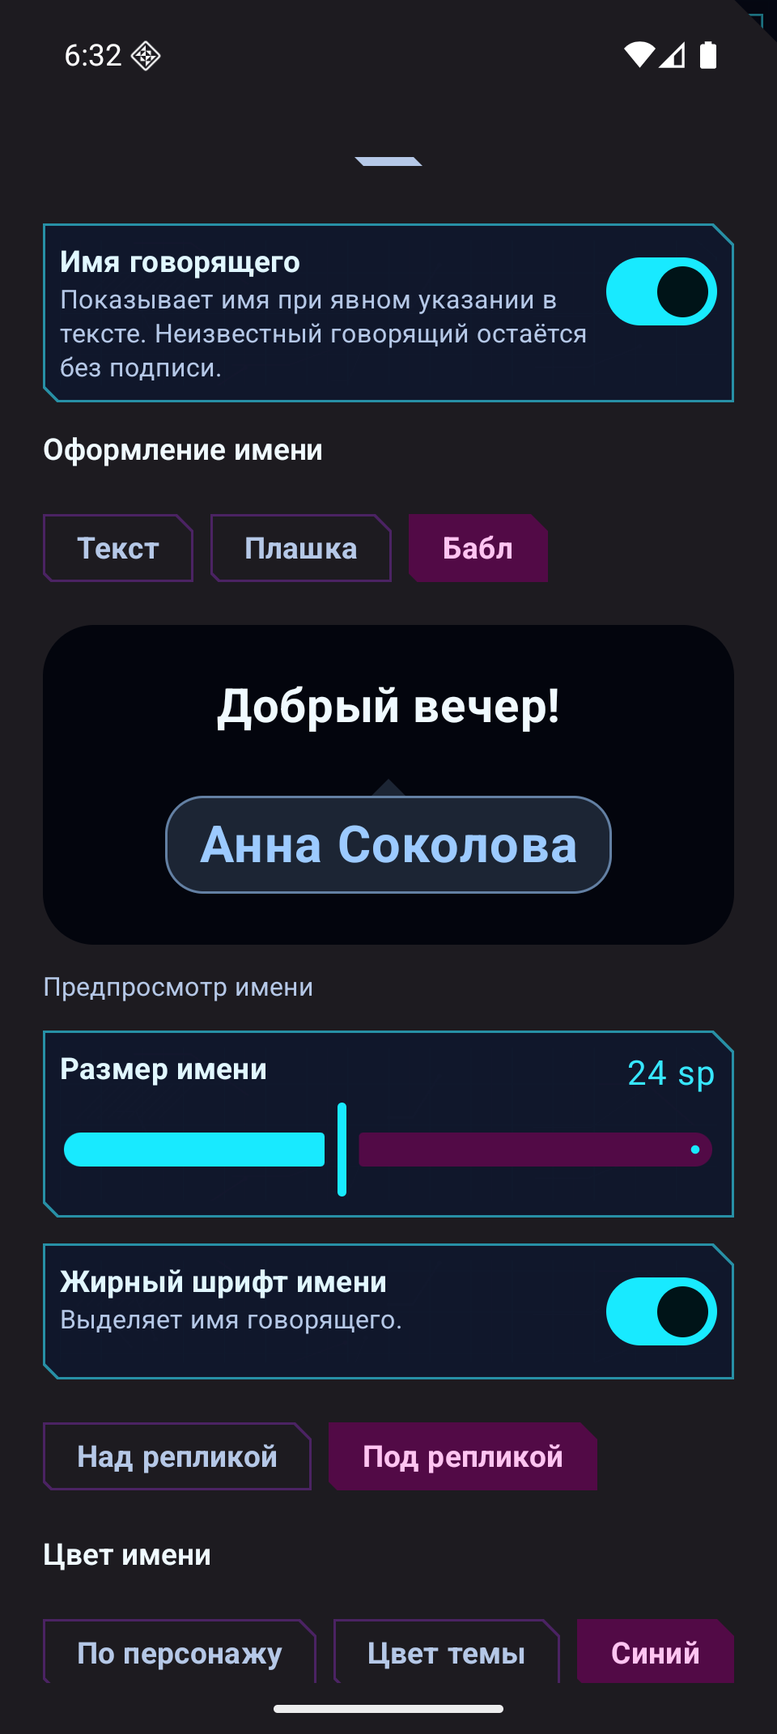
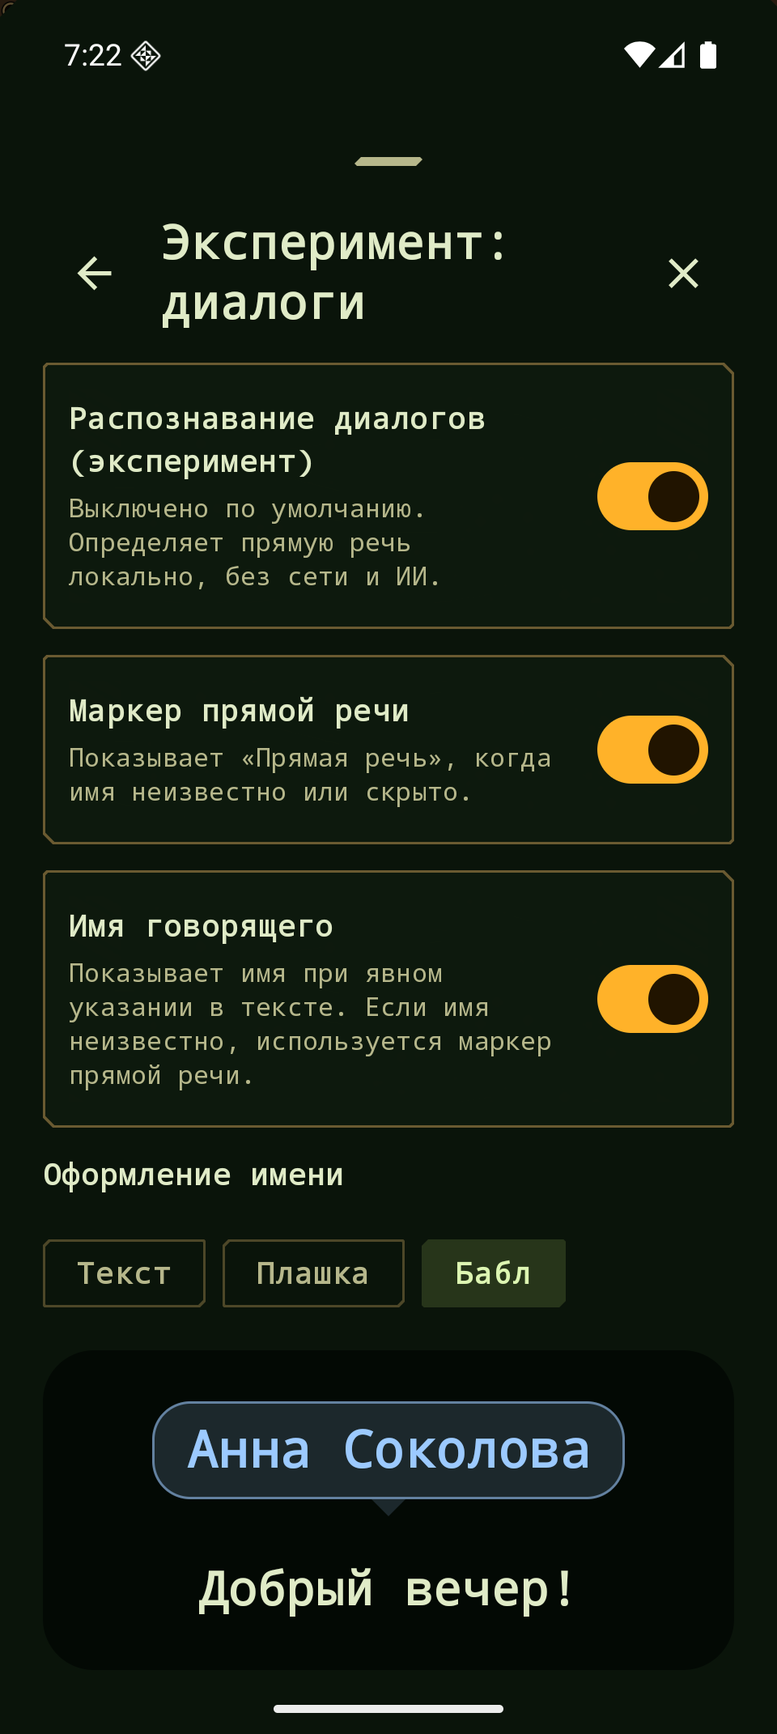
Prepare alpha.99 GitHub release documentation and screenshots

diff --git a/README.md b/README.md
@@ -6,9 +6,9 @@
 
 EPUB · FB2 · FB2.ZIP · TXT · PDF · Аудиокниги
 
-[**Скачать APK**](https://github.com/nrevis/FluxReader/releases/tag/v0.2.0-alpha.98) · [Исходники ZIP](https://github.com/nrevis/FluxReader/releases/download/v0.2.0-alpha.98/FluxReader-0.2.0-alpha.98-clean.zip) · [Все скриншоты](#gallery)
+[**Скачать APK**](https://github.com/nrevis/FluxReader/releases/tag/v0.2.0-alpha.99) · [Исходники ZIP](https://github.com/nrevis/FluxReader/releases/download/v0.2.0-alpha.99/FluxReader-0.2.0-alpha.99-clean.zip) · [Все скриншоты](#gallery)
 
-**Android 9+** · **0.2.0-alpha.98** · **Автор: n.revis**
+**Android 9+** · **0.2.0-alpha.99** · **Автор: n.revis**
 
 </div>
 
@@ -221,11 +221,11 @@ Flux Reader объединяет домашнюю библиотеку, обыч
 
 Для имени можно выбрать текст, плашку или бабл, размер 12–40 sp, цвет, жирность, положение над или под репликой и отступ. Предпросмотр находится рядом с настройками.
 
-Учитываются слова автора внутри реплики, неразрывные пробелы и явное представление говорящего перед репликой. Пауза в начале реплики настраивается от 0 до 500 мс. Функция выключена по умолчанию: включите её в **Настройки → Скорочтение → Экспериментальные функции** или в меню **«Эксперимент: диалоги»** внутри Speed Reader. Распознавание работает локально; неоднозначные реплики могут остаться без имени.
+Учитываются слова автора внутри реплики, неразрывные пробелы и явное представление говорящего перед репликой. Пауза в начале реплики настраивается от 0 до 500 мс. Функция выключена по умолчанию: включите её в **Настройки → Скорочтение → Экспериментальные функции** или в меню **«Эксперимент: диалоги»** внутри Speed Reader. Распознавание работает локально. Реплика без явного имени получает маркер «Прямая речь»; показ имени и общего маркера переключается отдельно. Неявное имя говорящего не угадывается. Учитываются наречия и должность перед именем, а также эмоциональные авторские ремарки.
 
-<p align="center"><a href="docs/screenshots/speed-reading/dialogue-name-preview.png"><img src="docs/screenshots/speed-reading/dialogue-name-preview.png" width="320" alt="Настройка бабла с именем говорящего и живой предпросмотр"></a><br><sub>Оформление имени: бабл, размер, жирность, положение и цвет. Снимок из эмулятора, текст демонстрационный.</sub></p>
+<p align="center"><a href="docs/screenshots/speed-reading/dialogue-name-preview.png"><img src="docs/screenshots/speed-reading/dialogue-name-preview.png" width="320" alt="Маркер прямой речи, показ имени и настройка бабла с предпросмотром"></a><br><sub>Отдельные переключатели маркера и имени; оформление бабла с предпросмотром. Снимок из эмулятора, текст демонстрационный.</sub></p>
 
-Полноэкранное чтение учитывает скругления углов и вырез камеры. В настройках исправлены контраст текста, обрезанные вкладки и перенос кнопок. Подпись говорящего сохраняет место, чтобы точка фиксации не сдвигалась при появлении имени.
+Полноэкранное чтение учитывает скругления углов и вырез камеры. Варианты настроек переносятся целиком, подписи ползунков отделены от значений, а окно настроек скорочтения открывается полностью и прокручивается. Длинное слово или реплика подгоняются по фактической ширине, чтобы буквы не обрезались. Подпись говорящего сохраняет место, чтобы точка фиксации не сдвигалась при появлении имени.
 
 **Управление:** один тап — воспроизведение/пауза, двойной — полный экран, если эти жесты включены. Можно использовать кнопки на экране или кнопки громкости: короткое нажатие переключает воспроизведение, удержание переводит к соседнему предложению.
 
@@ -254,7 +254,7 @@ Flux Reader объединяет домашнюю библиотеку, обыч
 
 <table>
 <tr>
-<td align="center" valign="top"><a href="docs/screenshots/speed-reading/settings-hub.jpg"><img src="docs/screenshots/speed-reading/settings-hub.jpg" width="280" alt="Разделы настройки скорочтения"></a><br><sub>Разделы настройки скорочтения</sub></td><td align="center" valign="top"><a href="docs/screenshots/speed-reading/speed-and-pacing.jpg"><img src="docs/screenshots/speed-reading/speed-and-pacing.jpg" width="280" alt="Режимы, профили темпа, WPM и слов за фиксацию"></a><br><sub>Режимы, профили темпа, WPM и слов за фиксацию</sub></td>
+<td align="center" valign="top"><a href="docs/screenshots/speed-reading/settings-hub.png"><img src="docs/screenshots/speed-reading/settings-hub.png" width="280" alt="Разделы настройки скорочтения"></a><br><sub>Разделы настройки скорочтения</sub></td><td align="center" valign="top"><a href="docs/screenshots/speed-reading/speed-and-pacing.jpg"><img src="docs/screenshots/speed-reading/speed-and-pacing.jpg" width="280" alt="Режимы, профили темпа, WPM и слов за фиксацию"></a><br><sub>Режимы, профили темпа, WPM и слов за фиксацию</sub></td>
 </tr>
 </table>
 <table>
@@ -343,7 +343,7 @@ PDF открывается как документ со страницами, м
 - **ML Kit Latin:** резервное распознавание латинского текста без дополнительных моделей Tesseract.
 - OCR запускается для страниц без встроенного текста и управляется отдельным переключателем.
 
-**В опубликованной alpha.98 языковые модели Tesseract не вложены.** Поэтому наличие переключателей rus/ukr/eng не означает, что все три языка готовы к распознаванию. Для полноценного OCR этих языков нужна сборка с моделями. На скриншоте показаны настройки OCR; отдельного кадра открытого PDF нет.
+**В опубликованной alpha.99 языковые модели Tesseract не вложены.** Поэтому наличие переключателей rus/ukr/eng не означает, что все три языка готовы к распознаванию. Для полноценного OCR этих языков нужна сборка с моделями. На скриншоте показаны настройки OCR; отдельного кадра открытого PDF нет.
 
 <table>
 <tr>
@@ -356,11 +356,11 @@ PDF открывается как документ со страницами, м
 
 ## 10 · Установка и обновления
 
-1. Откройте [релиз 0.2.0-alpha.98](https://github.com/nrevis/FluxReader/releases/tag/v0.2.0-alpha.98).
-2. Скачайте **FluxReader-0.2.0-alpha.98-release.apk** и откройте его на Android 9 или новее.
+1. Откройте [релиз 0.2.0-alpha.99](https://github.com/nrevis/FluxReader/releases/tag/v0.2.0-alpha.99).
+2. Скачайте **FluxReader-0.2.0-alpha.99-release.apk** и откройте его на Android 9 или новее.
 3. Разрешите установку для приложения, из которого открываете APK, и подтвердите действие в системном установщике.
 
-APK alpha.98 сохраняет сертификат предыдущих alpha-сборок и подходит для обновления поверх alpha.92–alpha.96 с той же подписью.
+APK alpha.99 сохраняет сертификат предыдущих alpha-сборок и подходит для обновления поверх alpha.92–alpha.98 с той же подписью.
 
 В **«Настройки → О программе → Обновления»** добавлены ручная проверка GitHub Releases, необязательная проверка раз в сутки, выбор alpha-канала, скачивание APK с прогрессом и переход к системной установке. Перед установкой проверяются контрольная сумма SHA-256, имя пакета, номер версии и сертификат.
 
@@ -453,7 +453,7 @@ APK alpha.98 сохраняет сертификат предыдущих alpha-
 </table>
 <table>
 <tr>
-<td align="center" valign="top"><a href="docs/screenshots/speed-reading/immersive-playback.jpg"><img src="docs/screenshots/speed-reading/immersive-playback.jpg" width="230" alt="Полноэкранное скорочтение во время воспроизведения"></a><br><sub>Полноэкранное скорочтение во время воспроизведения</sub></td><td align="center" valign="top"><a href="docs/screenshots/speed-reading/settings-hub.jpg"><img src="docs/screenshots/speed-reading/settings-hub.jpg" width="230" alt="Разделы настройки скорочтения"></a><br><sub>Разделы настройки скорочтения</sub></td><td align="center" valign="top"><a href="docs/screenshots/speed-reading/display-preferences.jpg"><img src="docs/screenshots/speed-reading/display-preferences.jpg" width="230" alt="Шрифт, ORP, следующие слова и прогресс"></a><br><sub>Шрифт, ORP, следующие слова и прогресс</sub></td>
+<td align="center" valign="top"><a href="docs/screenshots/speed-reading/immersive-playback.jpg"><img src="docs/screenshots/speed-reading/immersive-playback.jpg" width="230" alt="Полноэкранное скорочтение во время воспроизведения"></a><br><sub>Полноэкранное скорочтение во время воспроизведения</sub></td><td align="center" valign="top"><a href="docs/screenshots/speed-reading/settings-hub.png"><img src="docs/screenshots/speed-reading/settings-hub.png" width="230" alt="Разделы настройки скорочтения"></a><br><sub>Разделы настройки скорочтения</sub></td><td align="center" valign="top"><a href="docs/screenshots/speed-reading/display-preferences.jpg"><img src="docs/screenshots/speed-reading/display-preferences.jpg" width="230" alt="Шрифт, ORP, следующие слова и прогресс"></a><br><sub>Шрифт, ORP, следующие слова и прогресс</sub></td>
 </tr>
 </table>
 <table>
@@ -473,7 +473,7 @@ APK alpha.98 сохраняет сертификат предыдущих alpha-
 </table>
 <table>
 <tr>
-<td align="center" valign="top"><a href="docs/screenshots/speed-reading/wasteland-playback.jpg"><img src="docs/screenshots/speed-reading/wasteland-playback.jpg" width="230" alt="Wasteland: RSVP во время воспроизведения"></a><br><sub>Wasteland: RSVP во время воспроизведения</sub></td><td align="center" valign="top"><a href="docs/screenshots/speed-reading/wasteland-settings-hub.jpg"><img src="docs/screenshots/speed-reading/wasteland-settings-hub.jpg" width="230" alt="Wasteland: настройки Speed Reader"></a><br><sub>Wasteland: настройки Speed Reader</sub></td>
+<td align="center" valign="top"><a href="docs/screenshots/speed-reading/wasteland-playback.jpg"><img src="docs/screenshots/speed-reading/wasteland-playback.jpg" width="230" alt="Wasteland: RSVP во время воспроизведения"></a><br><sub>Wasteland: RSVP во время воспроизведения</sub></td><td align="center" valign="top"><a href="docs/screenshots/speed-reading/settings-hub.png"><img src="docs/screenshots/speed-reading/settings-hub.png" width="230" alt="Wasteland: настройки Speed Reader"></a><br><sub>Wasteland: настройки Speed Reader</sub></td>
 </tr>
 </table>
 
@@ -521,6 +521,6 @@ APK alpha.98 сохраняет сертификат предыдущих alpha-
 
 [Релизы](https://github.com/nrevis/FluxReader/releases) · [Исходники](https://github.com/nrevis/FluxReader)
 
-<sub>Описание сверено с исходниками 0.2.0-alpha.98. Скриншоты предоставлены автором и дополнены снимком настроек диалогов из эмулятора; выбранные на них значения и содержимое библиотеки служат примерами.</sub>
+<sub>Описание сверено с исходниками 0.2.0-alpha.99. Скриншоты предоставлены автором и дополнены снимком настроек диалогов из эмулятора; выбранные на них значения и содержимое библиотеки служат примерами.</sub>
 
 </div>

diff --git a/_archive/release-notes/RELEASE-NOTES-0.2.0-alpha.99.md b/_archive/release-notes/RELEASE-NOTES-0.2.0-alpha.99.md
@@ -1,6 +1,6 @@
 # Flux Reader 0.2.0-alpha.99 — видимые диалоги и аккуратная компоновка
 
-Проверочная alpha-сборка для Android 9 и новее. VersionCode 20116.
+Тестовый alpha-релиз для Android 9 и новее. VersionCode 20116.
 
 - Возвращён маркер «Прямая речь» для распознанной реплики без явного имени. Показ имени и общего маркера переключаются отдельно; отключение имени больше не убирает оформление диалогов целиком.
 - Распознаются имена после наречий и обращений по должности: «ответил спокойно Павел», «рявкнула профессор Макгонагалл». Добавлены эмоциональные авторские ремарки, включая «просиял Слизнорт».
@@ -14,3 +14,5 @@
 Проверено в эмуляторе Android 16 в трёх темах и со шрифтом 130%. Все 178 модульных тестов пройдены. Проблема диалогов воспроизведена на указанной пользователем главе «Сюрпризы на день рождения» и проверена после исправления.
 
 Распознавание остаётся эвристическим: неявное имя говорящего не угадывается. Режим диалогов включается отдельно в настройках скорочтения. Для чрезвычайно длинной непрерывной строки защитная подгонка может сделать шрифт мелким.
+
+APK сохраняет сертификат предыдущих alpha-сборок. В выпуск приложены APK, ZIP с исходниками и контрольные суммы SHA-256.

diff --git a/docs/SCREENSHOTS.md b/docs/SCREENSHOTS.md
@@ -53,7 +53,7 @@
 | photo_37 | Точка фиксации и контекст на паузе | [Открыть](screenshots/speed-reading/word-and-context.jpg) |
 | photo_36 | Полный экран с контекстом и компактным управлением | [Открыть](screenshots/speed-reading/immersive-context.jpg) |
 | photo_35 | Полноэкранное скорочтение во время воспроизведения | [Открыть](screenshots/speed-reading/immersive-playback.jpg) |
-| photo_34 | Разделы настройки скорочтения | [Открыть](screenshots/speed-reading/settings-hub.jpg) |
+| Эмулятор alpha.99 | Разделы настройки скорочтения | [Открыть](screenshots/speed-reading/settings-hub.png) |
 | photo_33 | Шрифт, ORP, следующие слова и прогресс | [Открыть](screenshots/speed-reading/display-preferences.jpg) |
 | photo_32 | Касания, кнопки громкости и поведение после паузы | [Открыть](screenshots/speed-reading/behavior-preferences.jpg) |
 | photo_30 | Механика RSVP и точные паузы | [Открыть](screenshots/speed-reading/rsvp-and-timing.jpg) |
